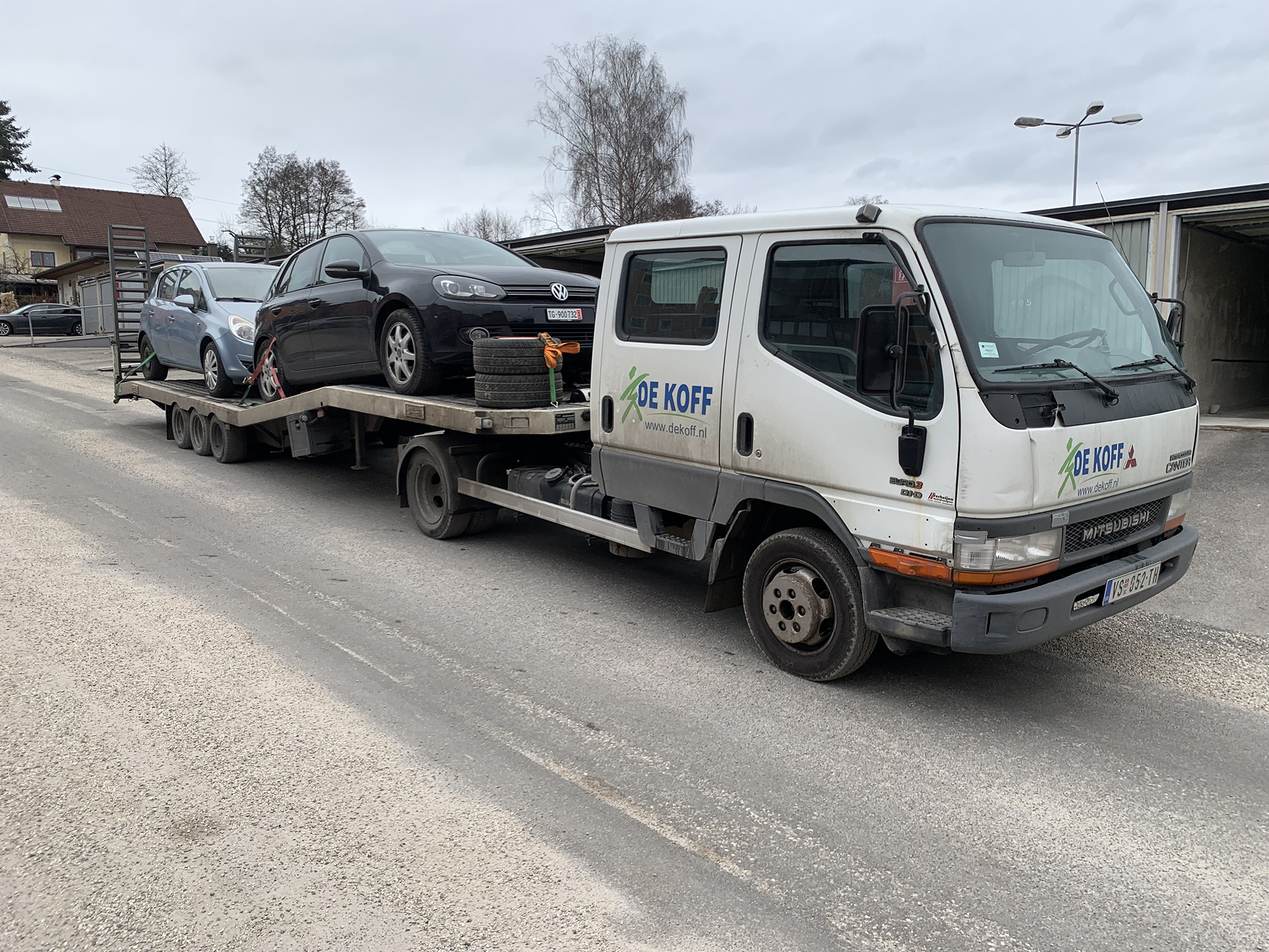
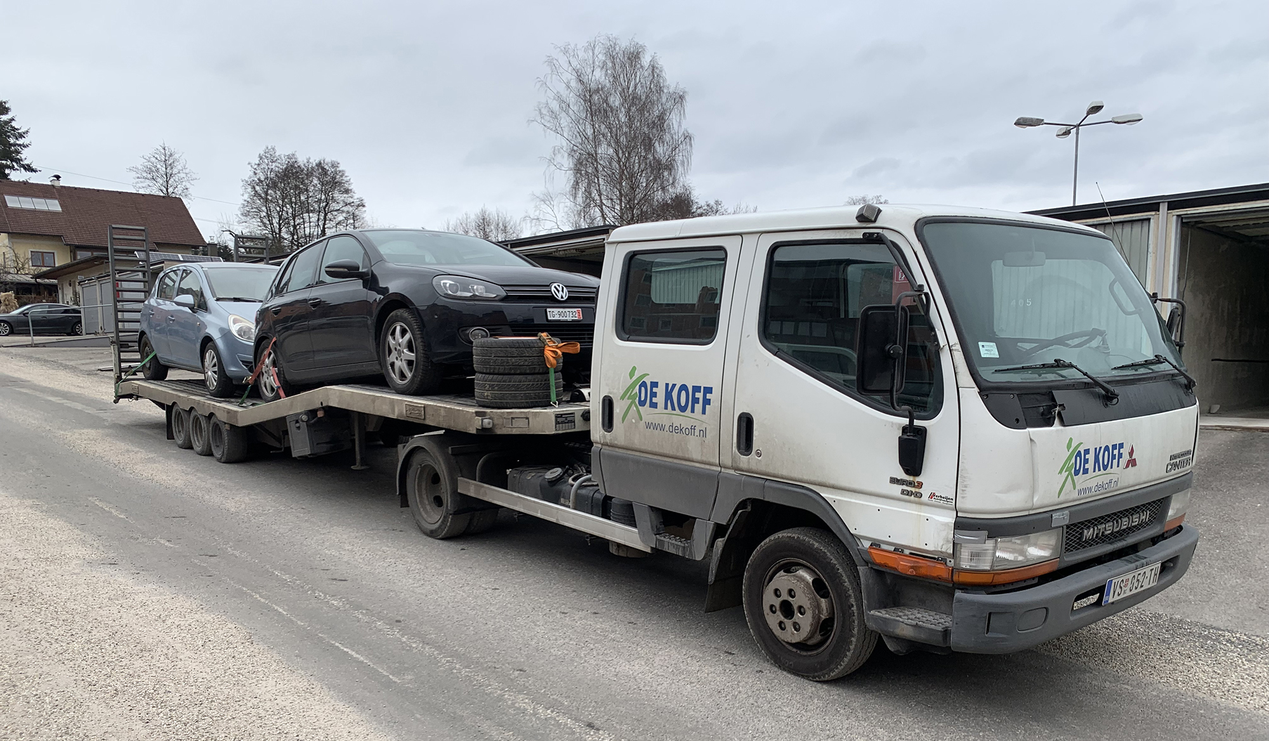
presentation photos resize

diff --git a/css/style.css b/css/style.css
@@ -123,17 +123,6 @@ h6,
     z-index: 1;
 }
 
-@media (max-width: 576px) {
-    .carousel-caption h5 {
-        font-size: 14px;
-        font-weight: 500 !important;
-    }
-
-    .carousel-caption h1 {
-        font-size: 30px;
-        font-weight: 600 !important;
-    }
-}
 
 .carousel-control-prev,
 .carousel-control-next {
@@ -169,6 +158,14 @@ h6,
     margin-top: 5px;
 }
 
+.imageDescriptionHomeFontTitle {
+    font-size: 80px;
+}
+
+.imageDescriptionHomeFont {
+    font-size: 30px;
+}
+
 /* .service-item:hover::after {
     border: 5px solid #2b4d8bab;
     border-radius: 10px;
@@ -194,7 +191,11 @@ h6,
 }
 
 .imageDescriptionHome {
-    margin-bottom: 15%;
+    margin-bottom: 0%;
+}
+
+.imageDescriptionHome2 {
+    margin-bottom: -4%;
 }
 .team-item .team-text {
     left: -100%;
@@ -655,7 +656,7 @@ nav {
 
 @media (min-width: 870px) and (max-width:1100px) {
     .carousel-caption h5 {
-        font-size: 17px;
+        font-size: 25px;
     }
 
     .carousel-caption h1 {
@@ -669,6 +670,11 @@ nav {
     }
     .imageDescriptionHome {
         margin-bottom: 0%;
+        font-size: 10px;
+    }
+    .imageDescriptionHome2 {
+        /* margin-bottom: -10%; */
+        font-size: 10px;
     }
 }
 
@@ -677,6 +683,9 @@ nav {
         margin-top: 5%;
     }
     .imageDescriptionHome {
+        margin-bottom: 7%;
+    }
+    .imageDescriptionHome2 {
         margin-bottom: 7%;
     }
 }
@@ -688,6 +697,9 @@ nav {
     .imageDescriptionHome {
         margin-bottom: 10%;
     }
+    .imageDescriptionHome2 {
+        margin-bottom: 10%;
+    }
 }
 
 @media (min-width:1500px) and (max-width:1800px) {
@@ -696,6 +708,10 @@ nav {
     }
 
     .imageDescriptionHome {
+        margin-bottom: 15%;
+    }
+
+    .imageDescriptionHome2 {
         margin-bottom: 15%;
     }
 }
@@ -962,6 +978,25 @@ nav {
     }
 }
 
+@media (min-width:550px) and (max-width:580px) {
+
+    .imageDescriptionHomeFontTitle {
+        font-size: 23px;
+    }
+
+    .imageDescriptionHomeFont {
+        font-size: 17px;
+    }
+}
+
+@media (min-width:580px) and (max-width:1100px) {
+
+    .imageDescriptionHomeFont {
+        font-size: 17px;
+    }
+}
+
+
 @media (min-width:450px) and (max-width:550px) {
 
     #navbarElement {
@@ -970,6 +1005,14 @@ nav {
 
     .nameOfThePage {
         margin-top: 140px;
+    }
+
+    .imageDescriptionHomeFontTitle {
+        font-size: 16px;
+    }
+
+    .imageDescriptionHomeFont {
+        font-size: 10px;
     }
 }
 
@@ -981,6 +1024,14 @@ nav {
 
     .nameOfThePage {
         margin-top: 130px;
+    }
+
+    .imageDescriptionHomeFontTitle {
+        font-size: 16px;
+    }
+
+    .imageDescriptionHomeFont {
+        font-size: 10px;
     }
 }
 
@@ -1037,6 +1088,14 @@ nav {
         align-items: center;
         margin-left: auto;
         margin-right: auto;
+    }
+
+    .imageDescriptionHomeFontTitle {
+        font-size: 16px;
+    }
+
+    .imageDescriptionHomeFont {
+        font-size: 10px;
     }
 }
 

diff --git a/index.html b/index.html
@@ -47,19 +47,17 @@
                     <img class="w-100 homeImages marginTop" src="img/large/32.jpg" alt="Image" id="imagePresentation1">
                     <div class="carousel-caption d-flex flex-column align-items-center justify-content-center">
                         <div class="p-3 imageDescriptionHome" style="max-width: 900px;">
-                            <h5 class="text-white text-uppercase">Transport-Evropa</h5>
-                            <h1 class="display-1 text-white mb-md-4">Siguran prevoz vase imovine</h1>
-                            <a href="contact.html" class="btn btn-secondary py-md-3 px-md-5 rounded-pill">Kontakt</a>
+                            <h1 class="display-1 text-white mb-md-4 imageDescriptionHomeFontTitle">Siguran prevoz vase imovine</h1>
+                            <a href="contact.html" class="btn btn-secondary py-md-3 px-md-5 rounded-pill imageDescriptionHomeFont">Kontakt</a>
                         </div>
                     </div>
                 </div>
                 <div class="carousel-item">
                     <img class="w-100 homeImages marginTop" src="img/large/13.jpg" alt="Image" id="imagePresentation2">
                     <div class="carousel-caption d-flex flex-column align-items-center justify-content-center">
-                        <div class="p-3 imageDescriptionHome" style="max-width: 900px;">
-                            <h5 class="text-white text-uppercase">Transport-Evropa</h5>
-                            <h1 class="display-1 text-white mb-md-4">Transport raznih tipova vozila</h1>
-                            <a href="contact.html" class="btn btn-secondary py-md-3 px-md-5 rounded-pill">Kontakt</a>
+                        <div class="p-3 imageDescriptionHome2" style="max-width: 900px;">
+                            <h1 class="display-1 text-white mb-md-4 imageDescriptionHomeFontTitle">Transport raznih tipova vozila</h1>
+                            <a href="contact.html" class="btn btn-secondary py-md-3 px-md-5 rounded-pill imageDescriptionHomeFont">Kontakt</a>
                         </div>
                     </div>
                 </div>

diff --git a/js/window-resize.js b/js/window-resize.js
@@ -10,14 +10,10 @@ $(window.window.length).resize(function() {
 
 function changeLargeImages() {
     if(window.innerWidth < 1000) {
-        document.getElementById("imagePresentation1").src = "img/32.jpg";
-        document.getElementById("imagePresentation2").src = "img/13.jpg";
-    } else {
         document.getElementById("imagePresentation1").src = "img/medium/32.jpg";
         document.getElementById("imagePresentation2").src = "img/medium/13.jpg";
+    } else {
+        document.getElementById("imagePresentation1").src = "img/large/32.jpg";
+        document.getElementById("imagePresentation2").src = "img/large/13.jpg";
     }
-    //  else {
-    //     document.getElementById("imagePresentation1").src = "img/large/32.jpg";
-    //     document.getElementById("imagePresentation2").src = "img/large/13.jpg";
-    // }
 }
